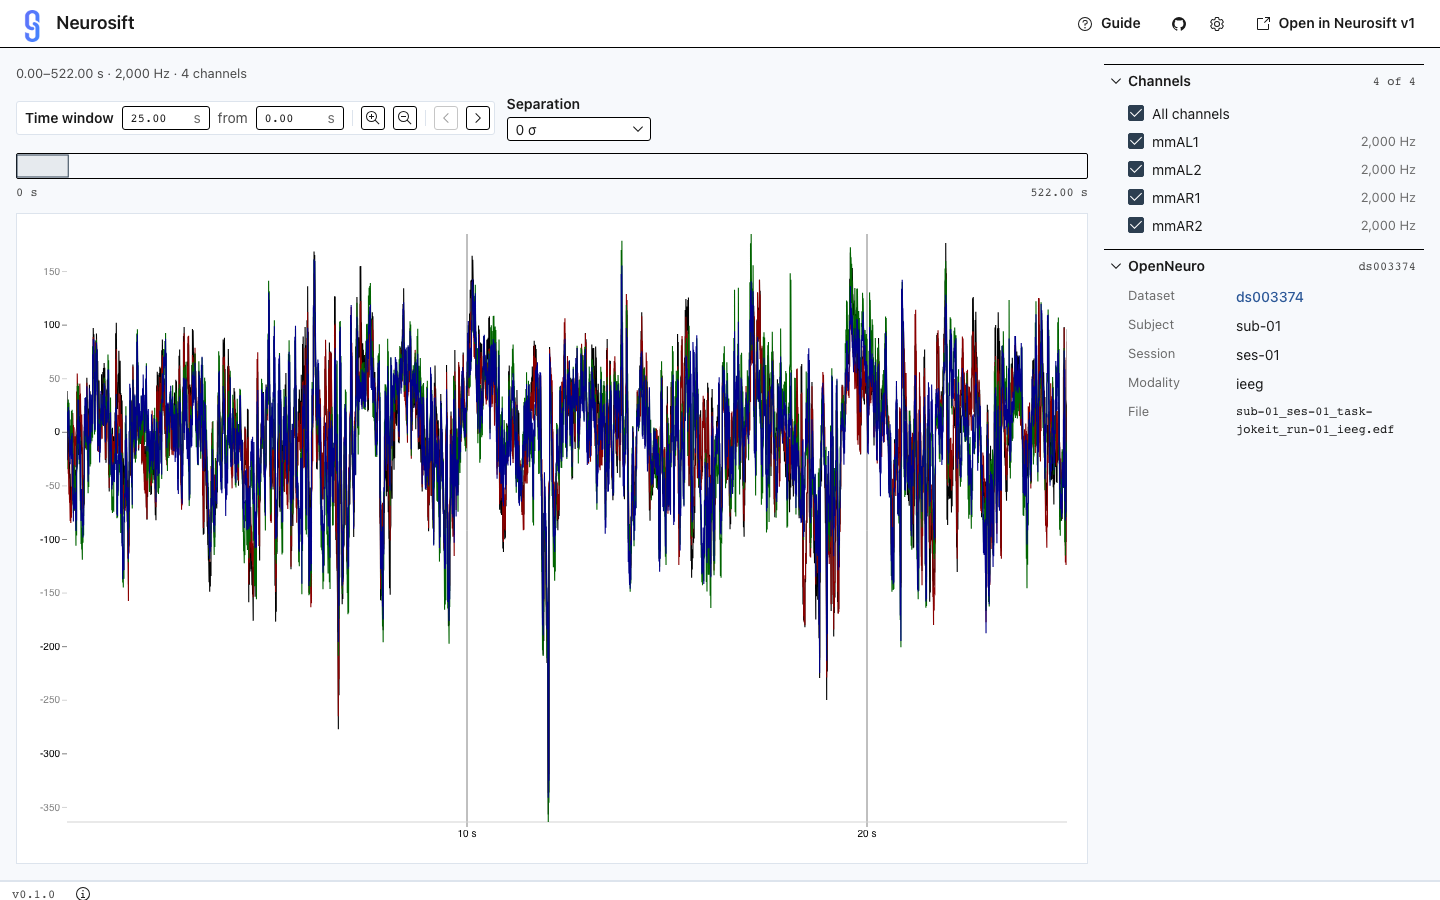
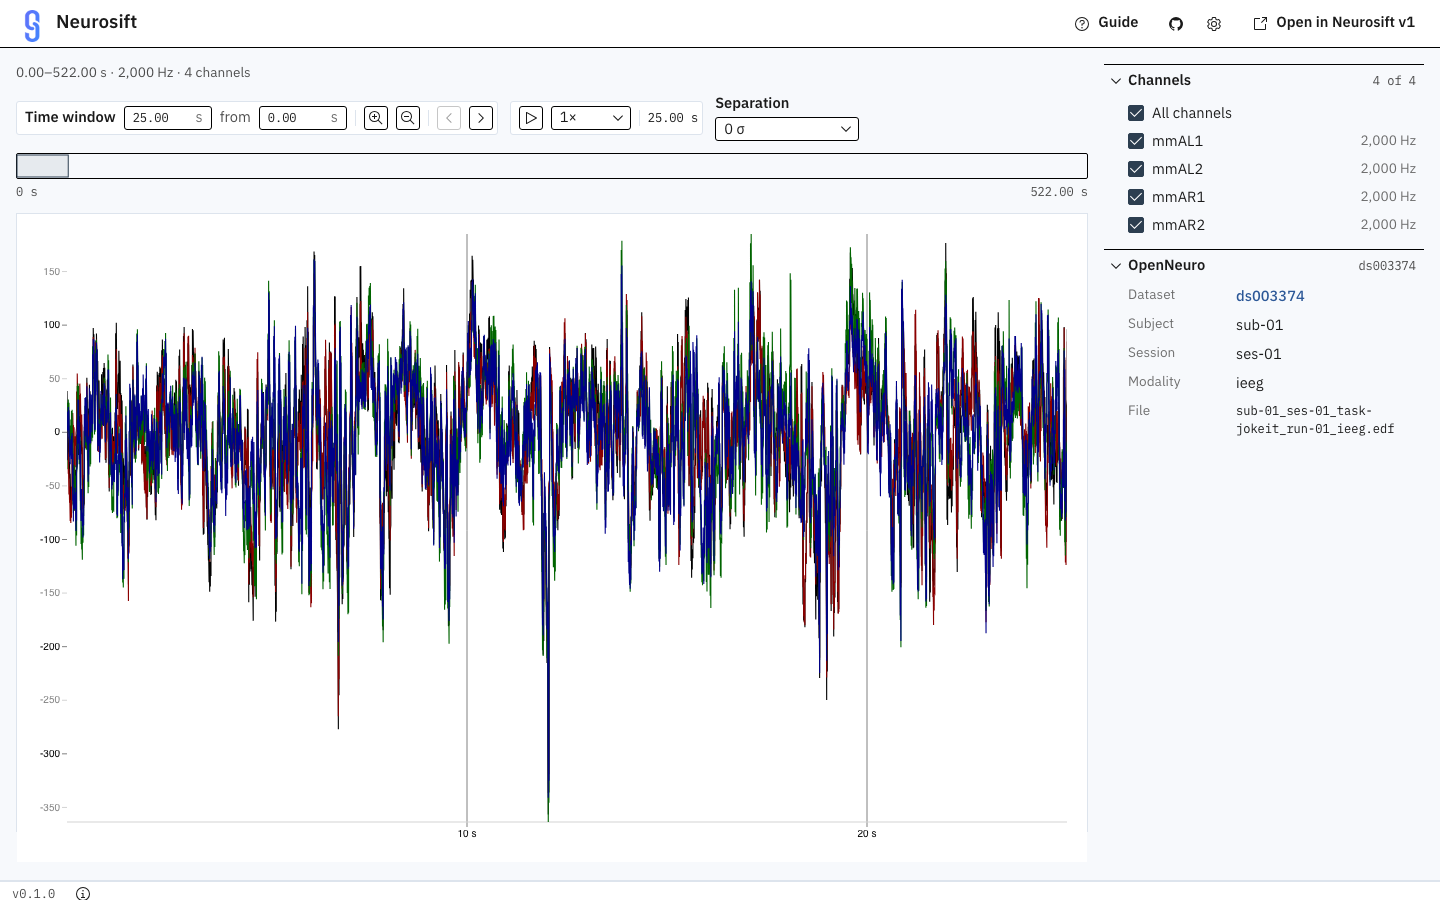
Add playback to the EDF viewer (#204)
Play moves the window through an EDF recording at the chosen speed, as on
traces. The plot loads 2 x speed seconds ahead while playing and reports the
span it has drawn, so playback holds and says "Waiting for data" when the next
stretch hasn't arrived. Play shortens a window too long to draw to the longest
that draws, so it never plays behind the zoom-in message.

The coverage check is shared with traces as covers(). A test confirms the EDF
reader serves a moved window from bytes it already fetched. Docs: Playback rows
on the EDF viewer page, EDF in the Time controls list, and a fresh capture.

diff --git a/src/shared/EdfViewer/TimeseriesItemView/NwbTimeseriesView.tsx b/src/shared/EdfViewer/TimeseriesItemView/NwbTimeseriesView.tsx
@@ -19,6 +19,7 @@ import {
 } from "@shared/TimeseriesTimestampsClient/TimeseriesTimestampsClient";
 import { useCssVars } from "@components/useCssVars";
 import { LoadingState, useLoadingPhase } from "@ui";
+import { loadedSpan } from "./loadedSpan";
 import TimeseriesDatasetChunkingClient from "./TimeseriesDatasetChunkingClient";
 import { DataSeries, Opts } from "./WorkerTypes";
 
@@ -171,6 +172,10 @@ type NwbTimeseriesViewChildProps = {
   yLabel: string;
   maxVisibleDuration?: number;
   annotations?: TimeseriesAnnotation[];
+  /** Seconds past the window to load as well, as playback runs ahead. */
+  lookahead?: number;
+  /** The span of time drawn data covers, or undefined while there is none. */
+  onLoadedRange?: (range: { start: number; end: number } | undefined) => void;
 };
 
 export const NwbTimeseriesViewChild: FunctionComponent<
@@ -189,6 +194,8 @@ export const NwbTimeseriesViewChild: FunctionComponent<
   yLabel,
   maxVisibleDuration,
   annotations,
+  lookahead = 0,
+  onLoadedRange,
 }) => {
   const [worker, setWorker] = useState<Worker | null>(null);
   const [canvasElement, setCanvasElement] = useState<
@@ -278,8 +285,13 @@ export const NwbTimeseriesViewChild: FunctionComponent<
           visibleStartTimeSec,
         );
       if (canceled) return;
-      let iEnd =
-        await timeseriesTimestampsClient.getDataIndexForTime(visibleEndTimeSec);
+      const loadEnd = Math.min(
+        visibleEndTimeSec + lookahead,
+        timeseriesTimestampsClient.endTime ?? Infinity,
+      );
+      let iEnd = await timeseriesTimestampsClient.getDataIndexForTime(
+        Math.max(loadEnd, visibleEndTimeSec),
+      );
       if (canceled) return;
 
       // give a buffer of one point on each side
@@ -304,6 +316,7 @@ export const NwbTimeseriesViewChild: FunctionComponent<
     numVisibleChannels,
     maxVisibleDuration,
     overrideMaxVisibleDuration,
+    lookahead,
   ]);
 
   const [dataseriesMode, setDataseriesMode] = useState<"line" | "marker">(
@@ -413,6 +426,11 @@ export const NwbTimeseriesViewChild: FunctionComponent<
             });
           }
           setDataSeries(dataSeries);
+          onLoadedRange?.(
+            completed
+              ? loadedSpan(tt, concatenatedChunk[0]?.length ?? tt.length)
+              : undefined,
+          );
         } catch (err: any) {
           if (err.message !== "canceled") {
             throw err;
@@ -438,6 +456,7 @@ export const NwbTimeseriesViewChild: FunctionComponent<
     width,
     renderSubsampleFactor,
     channelIndicesForColor,
+    onLoadedRange,
   ]);
 
   // Set valueRange
@@ -468,11 +487,12 @@ export const NwbTimeseriesViewChild: FunctionComponent<
     // refresh the value range when applyConversion or datasetChunkingClient changes
     setValueRange(undefined);
     setDataSeries(undefined);
+    onLoadedRange?.(undefined);
     setTimeout(() => {
       // not ideal
       setRefreshValueRangeCode((old) => old + 1);
     }, 100);
-  }, [applyConversion, datasetChunkingClient]);
+  }, [applyConversion, datasetChunkingClient, onLoadedRange]);
 
   useEffect(() => {
     // reset the value range

diff --git a/src/shared/EdfViewer/EdfViewer.tsx b/src/shared/EdfViewer/EdfViewer.tsx
@@ -8,6 +8,9 @@ import TimeView, {
   TIME_VIEW_INSET,
   TIME_VIEW_SETTINGS,
 } from "../../pages/NwbPage/plugins/common/TimeView";
+import { covers } from "../../pages/NwbPage/plugins/common/playback";
+import { useWindowPlayback } from "../../pages/NwbPage/plugins/common/usePlayback";
+import { useTimeWindow } from "../../pages/NwbPage/plugins/common/useTimeWindow";
 import { timeseriesSummary } from "../../pages/NwbPage/plugins/simple-timeseries/timeseriesSummary";
 import EDFReader from "./EDFReader";
 import EdfChannels from "./EdfChannels";
@@ -71,6 +74,15 @@ const EdfViewer: FunctionComponent<EdfPageProps> = ({
     const nSamplesPerSec = edfReader?.getSignalFreqs()[0] || 1;
     return 5e6 / (nSamplesPerSec * nChannels);
   }, [edfReader]);
+  // Play shortens a window too long to draw, so it never plays the zoom-in message.
+  const playback = useWindowPlayback(maxVisibleDuration);
+  const lookahead = playback.playing
+    ? 2 * Math.max(1, Number(playback.speed))
+    : 0;
+  const [loadedRange, setLoadedRange] = useState<
+    { start: number; end: number } | undefined
+  >();
+  const time = useTimeWindow();
   useEffect(() => {
     // select all the channels to start
     setSelectedChannelIndices(
@@ -89,6 +101,15 @@ const EdfViewer: FunctionComponent<EdfPageProps> = ({
   const info = openNeuroInfo(edfUrl);
   const labels = edfReader?.getSignalTextLabels() ?? [];
   const rates = edfReader?.getSignalFreqs() ?? [];
+  const visibleEnd = time.value.start + time.value.duration;
+  const holding =
+    time.value.duration <= maxVisibleDuration &&
+    !covers(
+      loadedRange,
+      time.value.start,
+      visibleEnd,
+      timeseriesTimestampsClient?.endTime ?? visibleEnd,
+    );
   const section = (key: keyof typeof open) => ({
     open: open[key],
     onToggle: (next: boolean) => setOpen((o) => ({ ...o, [key]: next })),
@@ -109,6 +130,8 @@ const EdfViewer: FunctionComponent<EdfPageProps> = ({
             samplingFrequency: rates[0] ?? 0,
             totalNumChannels: labels.length,
           })}
+          playback={playback}
+          holding={holding}
           controls={
             <div className="edf-separation">
               <Select
@@ -182,6 +205,8 @@ const EdfViewer: FunctionComponent<EdfPageProps> = ({
             numVisibleChannels={undefined}
             yLabel=""
             maxVisibleDuration={maxVisibleDuration}
+            lookahead={lookahead}
+            onLoadedRange={setLoadedRange}
           />
         </TimeView>
       )}

diff --git a/src/pages/NwbPage/plugins/common/playback.test.ts b/src/pages/NwbPage/plugins/common/playback.test.ts
@@ -3,6 +3,7 @@ import { describe, expect, it } from "vitest";
 import {
   advanceWindow,
   atEnd,
+  covers,
   framesDue,
   isPlaybackKey,
   sameWindow,
@@ -117,5 +118,25 @@ describe("isPlaybackKey", () => {
     expect(isPlaybackKey(" ", div)).toBe(true);
     expect(isPlaybackKey("Enter", div)).toBe(false);
     expect(isPlaybackKey(" ", button)).toBe(false);
+  });
+});
+
+describe("covers", () => {
+  it("is true when the loaded span holds the whole window", () => {
+    expect(covers({ start: 9, end: 20 }, 10, 15, 100)).toBe(true);
+  });
+
+  it("is false before anything has loaded, or when either edge is missing", () => {
+    expect(covers(undefined, 10, 15, 100)).toBe(false);
+    expect(covers({ start: 11, end: 20 }, 10, 15, 100)).toBe(false);
+    expect(covers({ start: 9, end: 14 }, 10, 15, 100)).toBe(false);
+  });
+
+  it("asks for nothing past the session's end", () => {
+    expect(covers({ start: 90, end: 100 }, 95, 105, 100)).toBe(true);
+  });
+
+  it("forgives rounding in sample times", () => {
+    expect(covers({ start: 1, end: 1.9999999999999998 }, 1, 2, 100)).toBe(true);
   });
 });

diff --git a/src/pages/NwbPage/plugins/simple-timeseries/SimpleTimeseriesView.tsx b/src/pages/NwbPage/plugins/simple-timeseries/SimpleTimeseriesView.tsx
@@ -10,6 +10,7 @@ import ViewError from "@components/ViewError/ViewError";
 import { useCssVars } from "@components/useCssVars";
 import { FunctionComponent, ReactNode, useMemo, useState } from "react";
 import TimeView, { TIME_VIEW_INSET } from "../common/TimeView";
+import { covers } from "../common/playback";
 import { useWindowPlayback } from "../common/usePlayback";
 import { useTimeWindow } from "../common/useTimeWindow";
 import { useTimeseriesData } from "./hooks";
@@ -88,9 +89,7 @@ export const SimpleTimeseriesView: FunctionComponent<
   const channels = info.totalNumChannels;
   const holding =
     !zoomInRequired &&
-    (!loadedRange ||
-      loadedRange.start > visibleStart ||
-      loadedRange.end < Math.min(visibleEnd, timeseriesClient.endTime));
+    !covers(loadedRange, visibleStart, visibleEnd, timeseriesClient.endTime);
   const plural = (n: number, word: string) =>
     `${n.toLocaleString("en-US")} ${word}${n === 1 ? "" : "s"}`;
 

diff --git a/src/shared/EdfViewer/TimeseriesItemView/loadedSpan.test.ts b/src/shared/EdfViewer/TimeseriesItemView/loadedSpan.test.ts
@@ -1,0 +1,25 @@
+import { describe, expect, it } from "vitest";
+import { loadedSpan } from "./loadedSpan";
+
+const times = (from: number, count: number, rate: number) =>
+  Float64Array.from({ length: count }, (_, i) => (from + i) / rate);
+
+describe("loadedSpan", () => {
+  it("runs from the first sample to just past the last", () => {
+    const span = loadedSpan(times(10, 10, 10), 10);
+    expect(span?.start).toBe(1);
+    expect(span?.end).toBeCloseTo(2, 9);
+  });
+
+  it("ends where the data stopped short of the request, at the recording's end", () => {
+    expect(loadedSpan(times(10, 10, 10), 4)).toEqual({ start: 1, end: 1.4 });
+  });
+
+  it("is undefined when nothing arrived", () => {
+    expect(loadedSpan(times(0, 10, 10), 0)).toBeUndefined();
+  });
+
+  it("holds a single sample", () => {
+    expect(loadedSpan(times(5, 1, 10), 1)).toEqual({ start: 0.5, end: 0.5 });
+  });
+});

diff --git a/src/pages/NwbPage/plugins/common/playback.ts b/src/pages/NwbPage/plugins/common/playback.ts
@@ -31,6 +31,17 @@ export const startWindow = (
   return { start: value.start + value.duration - duration, duration };
 };
 
+/** True when `loaded` holds the window from `start` to `end`, asking nothing past `sessionEnd`. */
+export const covers = (
+  loaded: { start: number; end: number } | undefined,
+  start: number,
+  end: number,
+  sessionEnd: number,
+) =>
+  !!loaded &&
+  loaded.start <= start + EPSILON &&
+  loaded.end >= Math.min(end, sessionEnd) - EPSILON;
+
 export const sameWindow = (a: TimeWindowValue, b: TimeWindowValue) =>
   Math.abs(a.start - b.start) < EPSILON &&
   Math.abs(a.duration - b.duration) < EPSILON;

diff --git a/src/shared/EdfViewer/EDFReader.test.ts b/src/shared/EdfViewer/EDFReader.test.ts
@@ -165,6 +165,15 @@ describe("EDFReader.readSamples", () => {
     expect(x[14]).toBeCloseTo(physicalValue(2, 14), 3);
   });
 
+  it("reads a moved window from the bytes it already has", async () => {
+    const r = await EDFReader.fromURL("http://x/f.edf");
+    await r.readSamples(0, 0, 20);
+    const fetched = ranges.length;
+    await r.readSamples(0, 5, 25);
+    await r.readSamples(1, 0, 30);
+    expect(ranges.length).toBe(fetched);
+  });
+
   it("serves concurrent reads of different channels without stalling", async () => {
     const r = await EDFReader.fromURL("http://x/f.edf");
     const results = await Promise.race([

diff --git a/src/shared/EdfViewer/TimeseriesItemView/loadedSpan.ts b/src/shared/EdfViewer/TimeseriesItemView/loadedSpan.ts
@@ -1,0 +1,8 @@
+/** The time span of the first `received` samples at `timestamps`, its end just past the last; undefined if none. */
+export const loadedSpan = (timestamps: ArrayLike<number>, received: number) => {
+  const n = Math.min(received, timestamps.length);
+  if (n === 0) return undefined;
+  const step = n > 1 ? timestamps[n - 1] - timestamps[n - 2] : 0;
+  const end = n < timestamps.length ? timestamps[n] : timestamps[n - 1] + step;
+  return { start: timestamps[0], end };
+};
